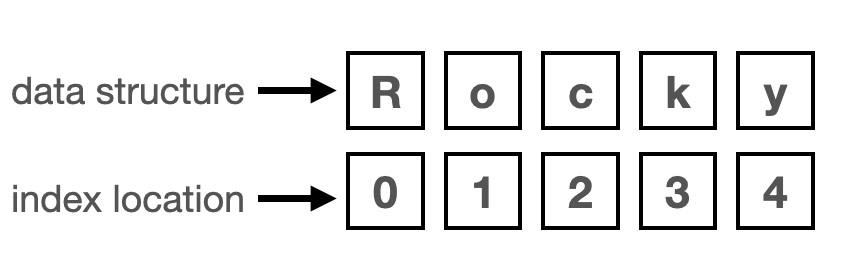
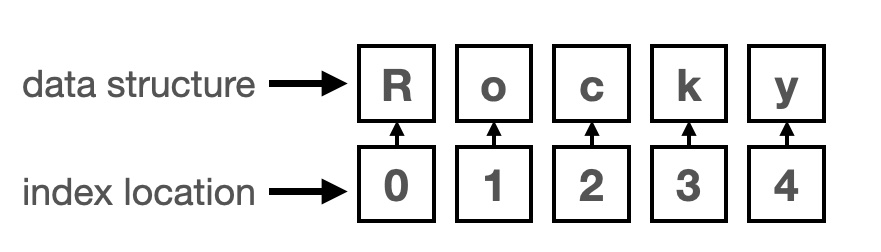
variables

Changed region(s): [[0.0, 0.1667, 0.9674, 0.8889], [0.5442, 0.6389, 0.5744, 0.8056], [0.5442, 0.3056, 0.5744, 0.4167]]

diff --git a/_posts/2021-08-31-variables-string-methods-functions.md b/_posts/2021-08-31-variables-string-methods-functions.md
@@ -247,27 +247,43 @@ which are indexed:
 
 ![Superscripting](/code/assets/images/variables-08-31/rocky-index.jpg)
 
-What does that mean?  First, a `string` is a `data structure` --- it holds data.
-
-Second, you can retrieve these characters by index value using the `[ ]` (square bracket) operator:
-
-```python
-
-third_letter = movie_title[2]
-print(third_letter)
-# c
-```
-
-
-
-
-
-
-
 ### Common Methods and Operations on Strings
 
 #### Slicing
 
-#### Manipulations
+What does that mean?
+
+- First, a `string` is a `data structure` --- it holds data.
+
+- Second, you can retrieve these characters by index value using the `[ ]` (square bracket) operator:
+
+```python
+>>> third_letter = movie_title[2]
+>>> third_letter
+'c'
+```
+
+But can also uses slicing with the square brackets operater (see this article [slicing](https://realpython.com/python-strings/#string-slicing))
+
+```python
+>>> movie_title[2:4]
+'ck'
+>>> movie_title[1:3]
+'oc'
+```
+
+Get used to this.  We will be using data structures beyond `strings` and, when contain a sequence of items, the `[ ]` operator is often used.
+
+
+#### String Methods
+
+Python dedicates an enormous part of its library to manipulation of `strings` --- they are that important because they are that pervasive.
+
+[Look at the many string methods](https://docs.python.org/3/library/stdtypes.html#string-methods) to get some sense.
+
+
+
+
+
 
 
